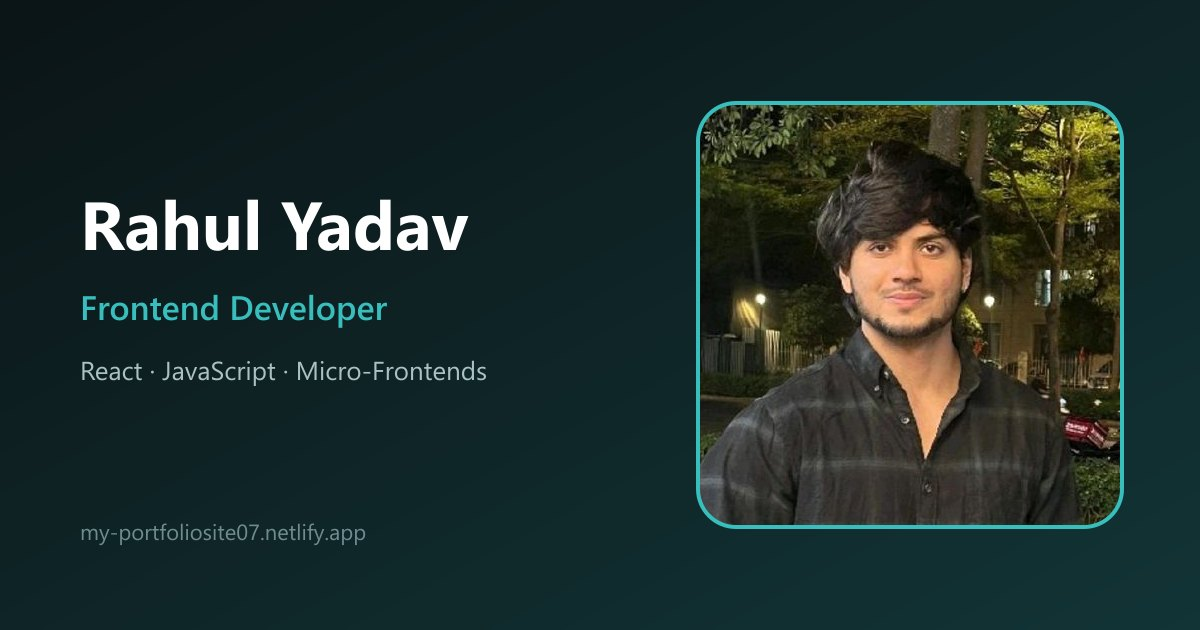
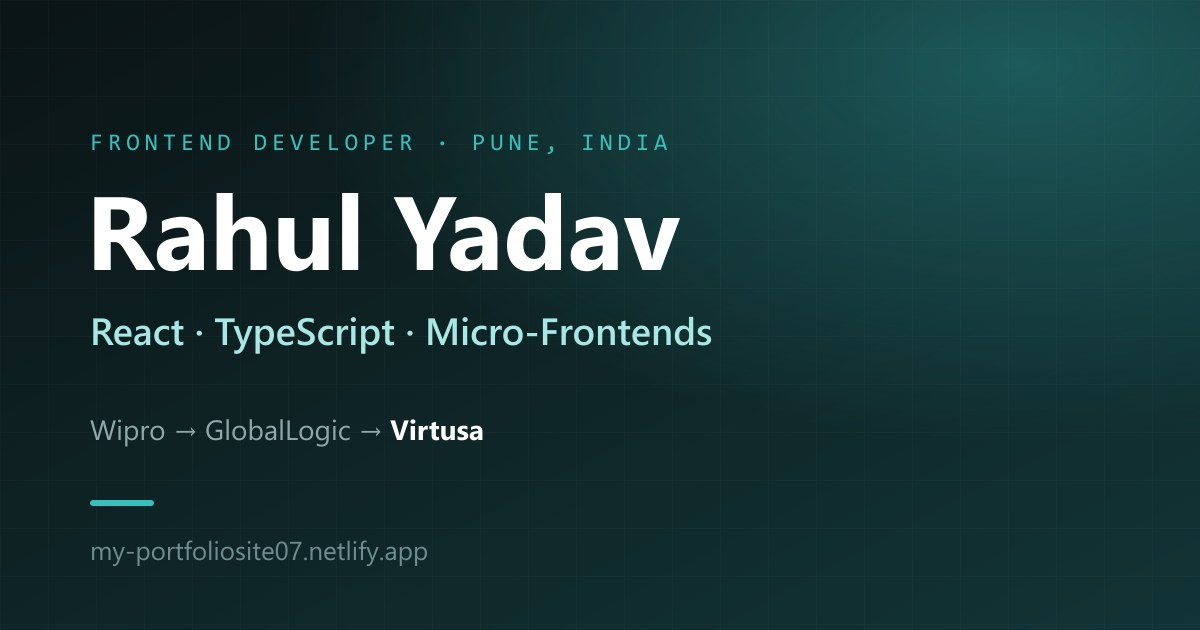
Remove profile photo: centred hero with career path; text-only social card

diff --git a/src/components/Sections.jsx b/src/components/Sections.jsx
@@ -2,8 +2,8 @@ import { ArrowRight, ArrowUpRight, ArrowUp, Check, Download, MapPin, Mail } from
 import { profile, experience, skills, projects, credentials } from "../data.js";
 import { GitHubIcon, LinkedInIcon } from "./Icons.jsx";
 
-// Responsive WebP from /public/img/<name>-<width>.webp. `eager` is for the
-// above-the-fold hero photo (loads first, high priority).
+// Responsive WebP from /public/img/<name>-<width>.webp. `eager` is for
+// above-the-fold images (load first, high priority).
 function Picture({ name, widths, sizes, alt, eager = false, width, height, className = "" }) {
     return (
         <img
@@ -45,48 +45,44 @@ export function Hero() {
             />
             <div aria-hidden="true" className="pointer-events-none absolute inset-0 bg-[radial-gradient(ellipse_60%_45%_at_50%_-5%,rgb(56_191_189/0.22),transparent_70%)] dark:bg-[radial-gradient(ellipse_60%_45%_at_50%_-5%,rgb(31_163_163/0.16),transparent_70%)]" />
 
-            <div className="relative mx-auto grid max-w-content items-center gap-12 px-5 pb-16 pt-28 sm:px-8 md:grid-cols-[1.4fr_1fr] md:gap-14 md:pb-28 md:pt-40">
-                <div className="order-2 md:order-1">
-                    <p className="inline-flex flex-wrap items-center gap-x-2 gap-y-1 rounded-full border border-slate-200 bg-white/70 px-3 py-1 text-xs font-medium text-slate-600 dark:border-white/10 dark:bg-white/5 dark:text-slate-300">
-                        <span className="h-1.5 w-1.5 rounded-full bg-accent-500" />
-                        {profile.role}
-                        <span className="inline-flex items-center gap-1"><MapPin size={12} /> {profile.location}</span>
-                    </p>
-                    <h1 className="mt-6 text-[2.5rem] font-extrabold leading-[1.08] tracking-tight sm:text-5xl lg:text-[3.5rem]">
-                        Hi, I’m {profile.name}.
-                        <span className="mt-3 block bg-gradient-to-r from-accent-700 to-sky-700 bg-clip-text text-2xl font-bold leading-snug text-transparent sm:text-3xl lg:text-[2.1rem] dark:from-accent-300 dark:to-sky-400">
-                            {profile.headline}
-                        </span>
-                    </h1>
-                    <p className="mt-6 max-w-xl text-base leading-relaxed text-slate-600 sm:text-lg dark:text-slate-400">{profile.intro}</p>
-                    <div className="mt-8 flex flex-wrap items-center gap-3">
-                        <a href="#projects" className="btn-primary">
-                            View my work <ArrowRight size={16} />
-                        </a>
-                        <a href="#contact" className="btn-ghost">Get in touch</a>
-                        <span className="mx-1 hidden h-6 w-px bg-slate-200 sm:block dark:bg-white/10" />
-                        <a href={profile.links.github} target="_blank" rel="noreferrer" aria-label="GitHub" className="rounded-full p-2.5 text-slate-600 transition hover:bg-slate-100 hover:text-slate-900 dark:text-slate-400 dark:hover:bg-white/10 dark:hover:text-white">
-                            <GitHubIcon className="h-5 w-5" />
-                        </a>
-                        <a href={profile.links.linkedin} target="_blank" rel="noreferrer" aria-label="LinkedIn" className="rounded-full p-2.5 text-slate-600 transition hover:bg-slate-100 hover:text-slate-900 dark:text-slate-400 dark:hover:bg-white/10 dark:hover:text-white">
-                            <LinkedInIcon className="h-5 w-5" />
-                        </a>
-                    </div>
+            <div className="relative mx-auto flex max-w-4xl flex-col items-center px-5 pb-20 pt-32 text-center sm:px-8 md:pb-28 md:pt-44">
+                <p className="inline-flex flex-wrap items-center justify-center gap-x-2 gap-y-1 rounded-full border border-slate-200 bg-white/70 px-3 py-1 text-xs font-medium text-slate-600 dark:border-white/10 dark:bg-white/5 dark:text-slate-300">
+                    <span className="h-1.5 w-1.5 rounded-full bg-accent-500" />
+                    {profile.role}
+                    <span className="inline-flex items-center gap-1"><MapPin size={12} /> {profile.location}</span>
+                </p>
+                <h1 className="mt-7 text-[2.6rem] font-extrabold leading-[1.05] tracking-tight sm:text-6xl lg:text-7xl">
+                    Hi, I’m {profile.name}.
+                    <span className="mx-auto mt-4 block max-w-3xl bg-gradient-to-r from-accent-700 to-sky-700 bg-clip-text pb-1 text-2xl font-bold leading-[1.3] text-transparent sm:text-3xl lg:text-[2.4rem] dark:from-accent-300 dark:to-sky-400">
+                        {profile.headline}
+                    </span>
+                </h1>
+                <p className="mt-6 max-w-2xl text-base leading-relaxed text-slate-600 sm:text-lg dark:text-slate-400">{profile.intro}</p>
+                <div className="mt-9 flex flex-wrap items-center justify-center gap-3">
+                    <a href="#projects" className="btn-primary">
+                        View my work <ArrowRight size={16} />
+                    </a>
+                    <a href="#contact" className="btn-ghost">Get in touch</a>
+                    <span className="mx-1 hidden h-6 w-px bg-slate-200 sm:block dark:bg-white/10" />
+                    <a href={profile.links.github} target="_blank" rel="noreferrer" aria-label="GitHub" className="rounded-full p-2.5 text-slate-600 transition hover:bg-slate-100 hover:text-slate-900 dark:text-slate-400 dark:hover:bg-white/10 dark:hover:text-white">
+                        <GitHubIcon className="h-5 w-5" />
+                    </a>
+                    <a href={profile.links.linkedin} target="_blank" rel="noreferrer" aria-label="LinkedIn" className="rounded-full p-2.5 text-slate-600 transition hover:bg-slate-100 hover:text-slate-900 dark:text-slate-400 dark:hover:bg-white/10 dark:hover:text-white">
+                        <LinkedInIcon className="h-5 w-5" />
+                    </a>
                 </div>
 
-                <div className="relative order-1 mx-auto w-48 sm:w-60 md:order-2 md:w-full md:max-w-sm">
-                    <div aria-hidden="true" className="absolute -inset-2.5 rotate-3 rounded-[2rem] bg-gradient-to-br from-accent-400 to-sky-500 opacity-80 sm:-inset-3" />
-                    <Picture
-                        name={profile.photo}
-                        widths={[320, 480, 640]}
-                        sizes="(min-width: 768px) 384px, (min-width: 640px) 240px, 192px"
-                        alt={`Portrait of ${profile.name}`}
-                        width={640}
-                        height={640}
-                        eager
-                        className="relative aspect-square w-full rounded-[1.75rem] object-cover shadow-2xl"
-                    />
-                </div>
+                {/* Career path, oldest to current */}
+                <ol className="mt-12 flex flex-wrap items-center justify-center gap-x-3 gap-y-2 text-sm text-slate-600 dark:text-slate-400" aria-label="Career path">
+                    {[...experience].reverse().map((job, i, all) => (
+                        <li key={job.company} className="flex items-center gap-3">
+                            <span className={i === all.length - 1 ? "rounded-full bg-accent-50 px-3 py-1 font-semibold text-accent-800 ring-1 ring-accent-200 dark:bg-accent-500/10 dark:text-accent-300 dark:ring-accent-500/30" : "font-medium"}>
+                                {job.company}
+                            </span>
+                            {i < all.length - 1 && <ArrowRight size={14} aria-hidden="true" className="text-slate-400" />}
+                        </li>
+                    ))}
+                </ol>
             </div>
         </section>
     );

diff --git a/index.html b/index.html
@@ -27,15 +27,6 @@
         <link rel="icon" type="image/png" sizes="32x32" href="/favicon-32x32.png" />
         <link rel="apple-touch-icon" href="/apple-touch-icon.png" />
 
-        <!-- Hero photo is the first image on screen: fetch it right away. -->
-        <link
-            rel="preload"
-            as="image"
-            type="image/webp"
-            imagesrcset="/img/rahul-320.webp 320w, /img/rahul-480.webp 480w, /img/rahul-640.webp 640w"
-            imagesizes="(min-width: 768px) 384px, (min-width: 640px) 240px, 192px"
-            fetchpriority="high"
-        />
 
         <script type="application/ld+json">
             {

diff --git a/src/data.js b/src/data.js
@@ -5,7 +5,6 @@ export const profile = {
     role: "Frontend Developer",
     location: "Pune, India",
     email: "rahulyadavaudi06@gmail.com",
-    photo: "rahul", // responsive WebP set: rahul-320/480/640.webp
     // Drop the final PDF into /public with this name.
     resume: "/Rahul_Yadav_Resume.pdf",
     links: {
